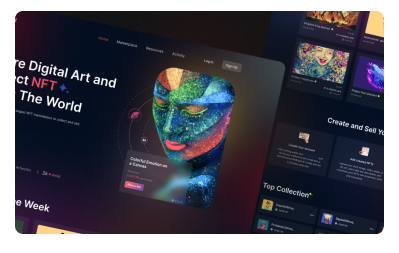
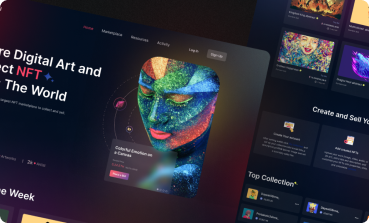
1st and 3rd section modiied

diff --git a/index.html b/index.html
@@ -34,11 +34,12 @@
         </div>
         <div class="bg-1st-sec-img ">
             <div class="container">
-                <div class="row pt-sm-150">
+                <div class="row pt-sm-150 flex-column-reverse flex-lg-row">
                     <div class="col-lg-6 col-sm-12 col-12">
-                        <h1 class="f-page-main pt-5 mx-570">We are believers decentralization and <span>Web3.</span>
+                        <h1 class="f-page-main pt-5 mx-570 mx-auto">We are believers decentralization and <span>Web3.</span>
                         </h1>
-                        <p class="f-page-des mx-570">Vulputate tristique habitant neque, accumsan. Vitae ultrices nulla erat
+                        <p class="f-page-des mx-570 mx-auto">Vulputate tristique habitant neque, accumsan. Vitae ultrices nulla
+                            erat
                             nibh aliquam, quis
                             tempus volutpat arcu. Leo convallis luctus dis malesuada turpis non consequat ac. </p>
                         <div class="d-flex gap-35 flex-column flex-md-row pt-4">
@@ -54,18 +55,22 @@
                         </div>
                     </div>
                     <div class="col-lg-6 col-sm-12 col-12 pt-3">
-                        <div class=""><img src="./assets/images/roate-card-img.png" alt="rotate-card-img"
-                                class="w-100"></div>
+                        <div><img src="./assets/images/roate-card-img.png" alt="rotate-card-img" class="w-100">
+                        </div>
                     </div>
                 </div>
+                <div class="d-flex justify-content-center align-items-center mt-5 pb-70"><a href="#upcoming"><svg width="16" height="52" viewBox="0 0 16 52" fill="none" xmlns="http://www.w3.org/2000/svg">
+                    <path opacity="0.7" d="M7.2929 51.7071C7.68342 52.0976 8.31658 52.0976 8.70711 51.7071L15.0711 45.3431C15.4616 44.9526 15.4616 44.3195 15.0711 43.9289C14.6805 43.5384 14.0474 43.5384 13.6569 43.9289L8 49.5858L2.34315 43.9289C1.95262 43.5384 1.31946 43.5384 0.928934 43.9289C0.53841 44.3195 0.53841 44.9526 0.928934 45.3431L7.2929 51.7071ZM7 4.37114e-08L7 51L9 51L9 -4.37114e-08L7 4.37114e-08Z" fill="white"/>
+                    </svg>
+                    </a></div>
             </div>
         </div>
     </header>
     <!--1st section  -->
-    <section class="position-relative">
-        <div class="container py-sm-150 overflow-hidden">
+    <section class="position-relative overflow-hidden" id="upcoming">
+        <div class="container py-sm-100 ">
             <div class="ellipse2"></div>
-            <h2 class="f-section-main d-flex justify-content-center align-items-center py-5 first-sec-line">Upcoming
+            <h2 class="f-section-main d-flex justify-content-center align-items-center pb-5 first-sec-line position-relative text-center">Upcoming
                 Projects </h2>
             <div class="row w-100 justify-content-center align-items-center">
                 <div class="col-lg-3 col-md-4 col-sm-6 col-12 pb-3 d-flex justify-content-center align-items-center">
@@ -120,49 +125,59 @@
             <div class="ellipse3"></div>
             <h2 class="f-section-main d-flex justify-content-center align-items-center sec-2-line pt-4">Services</h2>
             <div class="row pt-75 pb-sm-150 justify-content-center align-items-center">
-                <div class="col-lg-3 col-md-4 col-sm-6 col-12 pb-2 position-relative moon-hover d-flex flex-column justify-content-center-align-items-center">
-                    <div class="moon-circle-1"></div>
-                    <div class="services-card w-100 h-100">
-                        <span><svg width="40" height="40" viewBox="0 0 40 40" fill="none"
-                                xmlns="http://www.w3.org/2000/svg">
-                                <path
-                                    d="M8.889 9.11108H26.6668V10.8889H8.889V9.11108ZM8.889 18H17.8734V19.7778H8.889V18ZM25.9757 13.5555H8.889V15.3333H24.199L25.9757 13.5555ZM14.2146 32.3022C14.5134 32.6449 14.8927 32.908 15.3184 33.0678C15.7441 33.2276 16.2029 33.2791 16.6534 33.2178H25.3234C25.5297 33.2178 25.7276 33.1358 25.8734 32.9899C26.0193 32.8441 26.1012 32.6463 26.1012 32.44C26.1012 32.2337 26.0193 32.0359 25.8734 31.89C25.7276 31.7441 25.5297 31.6622 25.3234 31.6622H16.6534C15.6412 31.6444 15.8212 30.7655 15.9634 30.4933C16.1489 30.1738 16.2933 29.8322 16.3934 29.4766C16.4599 29.1905 16.4286 28.8904 16.3045 28.6242C16.1805 28.3579 15.9708 28.1409 15.709 28.0078C15.2884 27.8183 14.8173 27.7718 14.3678 27.8756C13.9182 27.9793 13.5151 28.2275 13.2201 28.5822C12.8379 28.9766 12.3068 29.58 11.7979 30.1666C12.1123 28.9344 12.5201 27.3533 12.9201 25.8111C13.0347 25.4597 13.0119 25.0779 12.8562 24.7426C12.7006 24.4074 12.4236 24.1436 12.0812 24.0044C11.702 23.8743 11.2876 23.8929 10.9215 24.0564C10.5555 24.22 10.2651 24.5163 10.109 24.8855C9.62899 25.8089 5.82899 32.1766 5.79122 32.2411C5.73883 32.3288 5.70424 32.4259 5.6894 32.527C5.67456 32.6281 5.67978 32.7311 5.70475 32.8301C5.72972 32.9292 5.77395 33.0223 5.83492 33.1043C5.89589 33.1862 5.97241 33.2554 6.06011 33.3078C6.23721 33.4135 6.44909 33.4446 6.64913 33.3942C6.84917 33.3438 7.02098 33.216 7.12677 33.0389C7.269 32.8 10.3023 27.7189 11.259 26.0222C10.539 28.8 9.74566 31.8911 9.699 32.1689C9.64646 32.3731 9.66223 32.5889 9.74389 32.7833C9.82555 32.9777 9.96861 33.1401 10.1512 33.2455C10.3546 33.3464 10.5858 33.3767 10.8083 33.3316C11.0308 33.2866 11.232 33.1687 11.3801 32.9966C11.5201 32.87 11.7823 32.5689 12.4434 31.8011C13.0594 31.0766 13.6903 30.365 14.3357 29.6666C14.5779 29.4111 14.7246 29.5244 14.5823 29.7755C14.3041 30.1271 14.1237 30.5459 14.0593 30.9896C13.9949 31.4332 14.0489 31.8861 14.2157 32.3022H14.2146Z"
-                                    fill="white" />
-                                <path
-                                    d="M31.1111 24.1055V35.5555H4.44439V4.44439H31.1111V9.99217L32.5888 8.51439C32.8163 8.29002 33.0657 8.08902 33.3333 7.91439V3.33328C33.3333 3.03859 33.2162 2.75598 33.0078 2.5476C32.7995 2.33923 32.5169 2.22217 32.2222 2.22217H3.33328C3.03859 2.22217 2.75598 2.33923 2.5476 2.5476C2.33923 2.75598 2.22217 3.03859 2.22217 3.33328V36.6666C2.22217 36.9613 2.33923 37.2439 2.5476 37.4523C2.75598 37.6607 3.03859 37.7777 3.33328 37.7777H32.2222C32.5169 37.7777 32.7995 37.6607 33.0078 37.4523C33.2162 37.2439 33.3333 36.9613 33.3333 36.6666V23.8077C32.6518 24.1689 31.8636 24.2745 31.1111 24.1055Z"
-                                    fill="white" />
-                                <path
-                                    d="M37.9198 13.1788L37.3387 12.5977C37.6357 12.2052 37.7861 11.7212 37.7638 11.2295C37.7414 10.7378 37.5478 10.2694 37.2165 9.90545C36.7864 9.52638 36.224 9.3326 35.6517 9.36631C35.0794 9.40003 34.5436 9.6585 34.161 10.0855L20.2443 23.9999L19.3143 27.491C19.2996 27.5367 19.2978 27.5856 19.3091 27.6322C19.3205 27.6788 19.3445 27.7214 19.3785 27.7552C19.4126 27.789 19.4553 27.8128 19.502 27.8238C19.5488 27.8348 19.5976 27.8327 19.6432 27.8177L23.1221 26.8766L36.1132 13.8855L36.6621 14.4355C36.7004 14.4737 36.7308 14.5192 36.7516 14.5692C36.7723 14.6193 36.783 14.6729 36.783 14.7271C36.783 14.7813 36.7723 14.8349 36.7516 14.885C36.7308 14.935 36.7004 14.9805 36.6621 15.0188L31.1987 20.4821C31.0321 20.6489 30.9385 20.8751 30.9386 21.1108C30.9387 21.3466 31.0325 21.5727 31.1993 21.7393C31.3661 21.906 31.5922 21.9995 31.828 21.9994C32.0638 21.9993 32.2899 21.9056 32.4565 21.7388L37.9198 16.2755C38.3305 15.8646 38.5611 15.3075 38.5611 14.7266C38.5611 14.1457 38.3305 13.5885 37.9198 13.1777V13.1788Z"
-                                    fill="white" />
-                            </svg>
-                        </span>
-                        <p class="f-services-main pt-3">Smart Contract </p>
-                        <p class="f-services-des">Eu faucibus libero leo, malesuada justo, tortor pellentesque quis sit.
-                            Dui viverra at odio
-                            sodales duis integer rhoncus pulvinar. Commodo massa aliquam.</p>
+                <div
+                    class="col-lg-3 col-md-4 col-sm-6 col-12 pb-2 position-relative d-flex flex-column justify-content-center-align-items-center">
+                    <div class="moon-hover">
+                        <div class="moon-circle-1"></div>
+                        <div class="services-card w-100 h-100">
+                            <span><svg width="40" height="40" viewBox="0 0 40 40" fill="none"
+                                    xmlns="http://www.w3.org/2000/svg">
+                                    <path
+                                        d="M8.889 9.11108H26.6668V10.8889H8.889V9.11108ZM8.889 18H17.8734V19.7778H8.889V18ZM25.9757 13.5555H8.889V15.3333H24.199L25.9757 13.5555ZM14.2146 32.3022C14.5134 32.6449 14.8927 32.908 15.3184 33.0678C15.7441 33.2276 16.2029 33.2791 16.6534 33.2178H25.3234C25.5297 33.2178 25.7276 33.1358 25.8734 32.9899C26.0193 32.8441 26.1012 32.6463 26.1012 32.44C26.1012 32.2337 26.0193 32.0359 25.8734 31.89C25.7276 31.7441 25.5297 31.6622 25.3234 31.6622H16.6534C15.6412 31.6444 15.8212 30.7655 15.9634 30.4933C16.1489 30.1738 16.2933 29.8322 16.3934 29.4766C16.4599 29.1905 16.4286 28.8904 16.3045 28.6242C16.1805 28.3579 15.9708 28.1409 15.709 28.0078C15.2884 27.8183 14.8173 27.7718 14.3678 27.8756C13.9182 27.9793 13.5151 28.2275 13.2201 28.5822C12.8379 28.9766 12.3068 29.58 11.7979 30.1666C12.1123 28.9344 12.5201 27.3533 12.9201 25.8111C13.0347 25.4597 13.0119 25.0779 12.8562 24.7426C12.7006 24.4074 12.4236 24.1436 12.0812 24.0044C11.702 23.8743 11.2876 23.8929 10.9215 24.0564C10.5555 24.22 10.2651 24.5163 10.109 24.8855C9.62899 25.8089 5.82899 32.1766 5.79122 32.2411C5.73883 32.3288 5.70424 32.4259 5.6894 32.527C5.67456 32.6281 5.67978 32.7311 5.70475 32.8301C5.72972 32.9292 5.77395 33.0223 5.83492 33.1043C5.89589 33.1862 5.97241 33.2554 6.06011 33.3078C6.23721 33.4135 6.44909 33.4446 6.64913 33.3942C6.84917 33.3438 7.02098 33.216 7.12677 33.0389C7.269 32.8 10.3023 27.7189 11.259 26.0222C10.539 28.8 9.74566 31.8911 9.699 32.1689C9.64646 32.3731 9.66223 32.5889 9.74389 32.7833C9.82555 32.9777 9.96861 33.1401 10.1512 33.2455C10.3546 33.3464 10.5858 33.3767 10.8083 33.3316C11.0308 33.2866 11.232 33.1687 11.3801 32.9966C11.5201 32.87 11.7823 32.5689 12.4434 31.8011C13.0594 31.0766 13.6903 30.365 14.3357 29.6666C14.5779 29.4111 14.7246 29.5244 14.5823 29.7755C14.3041 30.1271 14.1237 30.5459 14.0593 30.9896C13.9949 31.4332 14.0489 31.8861 14.2157 32.3022H14.2146Z"
+                                        fill="white" />
+                                    <path
+                                        d="M31.1111 24.1055V35.5555H4.44439V4.44439H31.1111V9.99217L32.5888 8.51439C32.8163 8.29002 33.0657 8.08902 33.3333 7.91439V3.33328C33.3333 3.03859 33.2162 2.75598 33.0078 2.5476C32.7995 2.33923 32.5169 2.22217 32.2222 2.22217H3.33328C3.03859 2.22217 2.75598 2.33923 2.5476 2.5476C2.33923 2.75598 2.22217 3.03859 2.22217 3.33328V36.6666C2.22217 36.9613 2.33923 37.2439 2.5476 37.4523C2.75598 37.6607 3.03859 37.7777 3.33328 37.7777H32.2222C32.5169 37.7777 32.7995 37.6607 33.0078 37.4523C33.2162 37.2439 33.3333 36.9613 33.3333 36.6666V23.8077C32.6518 24.1689 31.8636 24.2745 31.1111 24.1055Z"
+                                        fill="white" />
+                                    <path
+                                        d="M37.9198 13.1788L37.3387 12.5977C37.6357 12.2052 37.7861 11.7212 37.7638 11.2295C37.7414 10.7378 37.5478 10.2694 37.2165 9.90545C36.7864 9.52638 36.224 9.3326 35.6517 9.36631C35.0794 9.40003 34.5436 9.6585 34.161 10.0855L20.2443 23.9999L19.3143 27.491C19.2996 27.5367 19.2978 27.5856 19.3091 27.6322C19.3205 27.6788 19.3445 27.7214 19.3785 27.7552C19.4126 27.789 19.4553 27.8128 19.502 27.8238C19.5488 27.8348 19.5976 27.8327 19.6432 27.8177L23.1221 26.8766L36.1132 13.8855L36.6621 14.4355C36.7004 14.4737 36.7308 14.5192 36.7516 14.5692C36.7723 14.6193 36.783 14.6729 36.783 14.7271C36.783 14.7813 36.7723 14.8349 36.7516 14.885C36.7308 14.935 36.7004 14.9805 36.6621 15.0188L31.1987 20.4821C31.0321 20.6489 30.9385 20.8751 30.9386 21.1108C30.9387 21.3466 31.0325 21.5727 31.1993 21.7393C31.3661 21.906 31.5922 21.9995 31.828 21.9994C32.0638 21.9993 32.2899 21.9056 32.4565 21.7388L37.9198 16.2755C38.3305 15.8646 38.5611 15.3075 38.5611 14.7266C38.5611 14.1457 38.3305 13.5885 37.9198 13.1777V13.1788Z"
+                                        fill="white" />
+                                </svg>
+                            </span>
+                            <p class="f-services-main pt-3">Smart Contract </p>
+                            <p class="f-services-des">Eu faucibus libero leo, malesuada justo, tortor pellentesque quis
+                                sit.
+                                Dui viverra at odio
+                                sodales duis integer rhoncus pulvinar. Commodo massa aliquam.</p>
+                        </div>
                     </div>
                 </div>
-                <div class="col-lg-3 col-md-4 col-sm-6 col-12 pb-2 position-relative  moon-hover d-flex flex-column justify-content-center-align-items-center">
-                    <div class="moon-circle-1"></div>
-                    <div class="services-card w-100 h100">
-                        <span><svg width="40" height="40" viewBox="0 0 40 40" fill="none"
-                                xmlns="http://www.w3.org/2000/svg">
-                                <path
-                                    d="M33.3327 19.1668V11.6668L25.8327 3.3335H8.33268C7.41221 3.3335 6.66602 4.07969 6.66602 5.00016V35.0002C6.66602 35.9207 7.41221 36.6668 8.33268 36.6668H18.3327"
-                                    stroke="white" stroke-width="2" stroke-linecap="round" stroke-linejoin="round" />
-                                <path d="M21.666 31.6667L26.666 35.8334L34.166 26.6667" stroke="white" stroke-width="2"
-                                    stroke-linecap="round" stroke-linejoin="round" />
-                                <path d="M25 3.3335V11.6668H33.3333" stroke="white" stroke-width="2"
-                                    stroke-linecap="round" stroke-linejoin="round" />
-                            </svg>
-                        </span>
-                        <p class="f-services-main pt-3">Proof</p>
-                        <p class="f-services-des">Nisl, sed morbi porta orci nunc. Curabitur vitae hendrerit justo
-                            ultricies quam vitae pellentesque tellus felis. Elementum tortor quis est morbi ullamcorper.
-                        </p>
+                <div
+                    class="col-lg-3 col-md-4 col-sm-6 col-12 pb-2 position-relative d-flex flex-column justify-content-center-align-items-center">
+                    <div class="moon-hover">
+                        <div class="moon-circle-1"></div>
+                        <div class="services-card w-100 h100">
+                            <span><svg width="40" height="40" viewBox="0 0 40 40" fill="none"
+                                    xmlns="http://www.w3.org/2000/svg">
+                                    <path
+                                        d="M33.3327 19.1668V11.6668L25.8327 3.3335H8.33268C7.41221 3.3335 6.66602 4.07969 6.66602 5.00016V35.0002C6.66602 35.9207 7.41221 36.6668 8.33268 36.6668H18.3327"
+                                        stroke="white" stroke-width="2" stroke-linecap="round"
+                                        stroke-linejoin="round" />
+                                    <path d="M21.666 31.6667L26.666 35.8334L34.166 26.6667" stroke="white"
+                                        stroke-width="2" stroke-linecap="round" stroke-linejoin="round" />
+                                    <path d="M25 3.3335V11.6668H33.3333" stroke="white" stroke-width="2"
+                                        stroke-linecap="round" stroke-linejoin="round" />
+                                </svg>
+                            </span>
+                            <p class="f-services-main pt-3">Proof</p>
+                            <p class="f-services-des">Nisl, sed morbi porta orci nunc. Curabitur vitae hendrerit justo
+                                ultricies quam vitae pellentesque tellus felis. Elementum tortor quis est morbi
+                                ullamcorper.
+                            </p>
+                        </div>
                     </div>
                 </div>
-                <div class="col-lg-3 col-md-4 col-sm-6 col-12 pb-2 position-relative moon-hover d-flex flex-column justify-content-center-align-items-center">
+                <div class="col-lg-3 col-md-4 col-sm-6 col-12 pb-2 position-relative d-flex flex-column justify-content-center-align-items-center">
+                    <div class="moon-hover">
                     <div class="moon-circle-1"></div>
                     <div class="services-card w-100 h-100">
                         <span><svg width="40" height="40" viewBox="0 0 40 40" fill="none"
@@ -174,24 +189,34 @@
                         </span>
                         <p class="f-services-main pt-3">NFT Solutions</p>
                         <p class="f-services-des">Id nam massa sit ut purus tortor est ultrices nunc. Ipsum, nibh
-                            egestas vehicula tellus. Molestie adipiscing diam nibh lectus. Magna id nisl quis vestibulum
+                            egestas vehicula tellus. Molestie adipiscing diam nibh lectus. Magna id nisl quis
+                            vestibulum
                             rhoncus.</p>
                     </div>
+                    </div>
                 </div>
-                <div class="col-lg-3 col-md-4 col-sm-6 col-12 pb-2 position-relative moon-hover d-flex flex-column justify-content-center-align-items-center">
+                <div class="col-lg-3 col-md-4 col-sm-6 col-12 pb-2 position-relative d-flex flex-column justify-content-center-align-items-center">
+                    <div class="moon-hover">
                     <div class="moon-circle-1"></div>
                     <div class="services-card w-100 h-100">
-                        <span><svg width="40" height="40" viewBox="0 0 40 40" fill="none" xmlns="http://www.w3.org/2000/svg">
-                            <path d="M35 21.25V27.5H5V7.5H17.5V5H5C4.33696 5 3.70107 5.26339 3.23223 5.73223C2.76339 6.20107 2.5 6.83696 2.5 7.5V27.5C2.5 28.163 2.76339 28.7989 3.23223 29.2678C3.70107 29.7366 4.33696 30 5 30H15V35H10V37.5H30V35H25V30H35C35.663 30 36.2989 29.7366 36.7678 29.2678C37.2366 28.7989 37.5 28.163 37.5 27.5V21.25H35ZM22.5 35H17.5V30H22.5V35Z" fill="white"/>
-                            <path d="M37.5 12.5V10H34.8738C34.7125 9.21753 34.4019 8.47351 33.9587 7.80875L35.8212 5.94625L34.0538 4.17875L32.1912 6.04125C31.5265 5.59814 30.7825 5.28746 30 5.12625V2.5H27.5V5.12625C26.7175 5.28746 25.9735 5.59814 25.3087 6.04125L23.4462 4.17875L21.6788 5.94625L23.5413 7.80875C23.0981 8.47351 22.7875 9.21753 22.6262 10H20V12.5H22.6262C22.7875 13.2825 23.0981 14.0265 23.5413 14.6912L21.6788 16.5538L23.4462 18.3212L25.3087 16.4587C25.9735 16.9019 26.7175 17.2125 27.5 17.3738V20H30V17.3738C30.7825 17.2125 31.5265 16.9019 32.1912 16.4587L34.0538 18.3212L35.8212 16.5538L33.9587 14.6912C34.4019 14.0265 34.7125 13.2825 34.8738 12.5H37.5ZM28.75 15C28.0083 15 27.2833 14.7801 26.6666 14.368C26.0499 13.956 25.5693 13.3703 25.2855 12.6851C25.0016 11.9998 24.9274 11.2458 25.0721 10.5184C25.2167 9.79098 25.5739 9.1228 26.0983 8.59835C26.6228 8.0739 27.291 7.71675 28.0184 7.57206C28.7458 7.42736 29.4998 7.50162 30.1851 7.78545C30.8703 8.06928 31.456 8.54993 31.868 9.16661C32.2801 9.7833 32.5 10.5083 32.5 11.25C32.499 12.2443 32.1036 13.1975 31.4006 13.9006C30.6975 14.6036 29.7443 14.999 28.75 15Z" fill="white"/>
-                            </svg>                            
+                        <span><svg width="40" height="40" viewBox="0 0 40 40" fill="none"
+                                xmlns="http://www.w3.org/2000/svg">
+                                <path
+                                    d="M35 21.25V27.5H5V7.5H17.5V5H5C4.33696 5 3.70107 5.26339 3.23223 5.73223C2.76339 6.20107 2.5 6.83696 2.5 7.5V27.5C2.5 28.163 2.76339 28.7989 3.23223 29.2678C3.70107 29.7366 4.33696 30 5 30H15V35H10V37.5H30V35H25V30H35C35.663 30 36.2989 29.7366 36.7678 29.2678C37.2366 28.7989 37.5 28.163 37.5 27.5V21.25H35ZM22.5 35H17.5V30H22.5V35Z"
+                                    fill="white" />
+                                <path
+                                    d="M37.5 12.5V10H34.8738C34.7125 9.21753 34.4019 8.47351 33.9587 7.80875L35.8212 5.94625L34.0538 4.17875L32.1912 6.04125C31.5265 5.59814 30.7825 5.28746 30 5.12625V2.5H27.5V5.12625C26.7175 5.28746 25.9735 5.59814 25.3087 6.04125L23.4462 4.17875L21.6788 5.94625L23.5413 7.80875C23.0981 8.47351 22.7875 9.21753 22.6262 10H20V12.5H22.6262C22.7875 13.2825 23.0981 14.0265 23.5413 14.6912L21.6788 16.5538L23.4462 18.3212L25.3087 16.4587C25.9735 16.9019 26.7175 17.2125 27.5 17.3738V20H30V17.3738C30.7825 17.2125 31.5265 16.9019 32.1912 16.4587L34.0538 18.3212L35.8212 16.5538L33.9587 14.6912C34.4019 14.0265 34.7125 13.2825 34.8738 12.5H37.5ZM28.75 15C28.0083 15 27.2833 14.7801 26.6666 14.368C26.0499 13.956 25.5693 13.3703 25.2855 12.6851C25.0016 11.9998 24.9274 11.2458 25.0721 10.5184C25.2167 9.79098 25.5739 9.1228 26.0983 8.59835C26.6228 8.0739 27.291 7.71675 28.0184 7.57206C28.7458 7.42736 29.4998 7.50162 30.1851 7.78545C30.8703 8.06928 31.456 8.54993 31.868 9.16661C32.2801 9.7833 32.5 10.5083 32.5 11.25C32.499 12.2443 32.1036 13.1975 31.4006 13.9006C30.6975 14.6036 29.7443 14.999 28.75 15Z"
+                                    fill="white" />
+                            </svg>
                         </span>
                         <p class="f-services-main pt-3">Support</p>
-                        <p class="f-services-des">Tellus id et fringilla auctor. Ac viverra ullamcorper nec, senectus at
-                            nulla. Metus sem egestas volutpat cras phasellus cursus augue sagittis, enim. Sit et cras.
+                        <p class="f-services-des">Tellus id et fringilla auctor. Ac viverra ullamcorper nec,
+                            senectus at
+                            nulla. Metus sem egestas volutpat cras phasellus cursus augue sagittis, enim. Sit et
+                            cras.
                         </p>
                     </div>
-
+                    </div>
                 </div>
             </div>
         </div>
@@ -199,25 +224,26 @@
     <!-- 3rd section -->
     <section class="bg-white position-relative">
         <div class="container">
-            <h2 class="f-section-main sec-3-line d-flex justify-content-center align-items-center black-clr pt-75 ">Projects</h2>
+            <h2 class="f-section-main sec-3-line d-flex justify-content-center align-items-center black-clr pt-75 ">
+                Projects</h2>
             <p class="f-page-des mx-auto text-center black-clr pt-4 mx-532">Id nam massa sit ut purus tortor est
                 ultrices nunc. Ipsum, nibh egestas vehicula tellus. Molestie
                 adipiscing diam nibh lectus. Magna id nisl quis vestibulum rhoncus.
             </p>
             <div class="row pt-4 overflow-hidden">
-                <div class="col-lg-3 col-md-4 col-sm-6 col-12 pb-3 position-relative project pb-4 overflow-hidden">
+                <div class="col-lg-3 col-md-4 col-sm-6 col-12 position-relative project mb-4 overflow-hidden">
                     <img src="./assets/images/project-1.png" alt="project-img" class="project-img w-100">
                     <div class="text-blur text-center f-project">The Tokyo Tem</div>
                 </div>
-                <div class="col-lg-3 col-md-4 col-sm-6 col-12 pb-3 position-relative project pb-4">
+                <div class="col-lg-3 col-md-4 col-sm-6 col-12 position-relative project mb-4">
                     <img src="./assets/images/project-2.png" alt="project-img" class="project-img w-100">
                     <div class="text-blur text-center f-project">The Tokyo Tem</div>
                 </div>
-                <div class="col-lg-3 col-md-4 col-sm-6 col-12 pb-3 position-relative project pb-4">
+                <div class="col-lg-3 col-md-4 col-sm-6 col-12 position-relative project mb-4">
                     <img src="./assets/images/project-3.png" alt="project-img" class="project-img w-100">
                     <div class="text-blur text-center f-project">The Tokyo Tem</div>
                 </div>
-                <div class="col-lg-3 col-md-4 col-sm-6 col-12 pb-3 position-relative project pb-4">
+                <div class="col-lg-3 col-md-4 col-sm-6 col-12 position-relative project mb-4">
                     <img src="./assets/images/project-4.png" alt="project-img" class="project-img w-100">
                     <div class="text-blur text-center f-project">The Tokyo Tem</div>
                 </div>
@@ -247,18 +273,19 @@
     <section class="overflow-hidden">
         <div class="container position-relative">
             <div class="ellipse4"></div>
-            <h2 class="f-section-main d-flex justify-content-center align-items-center sec-4-line pt-3 mt-sm-100">About</h2>
+            <h2 class="f-section-main d-flex justify-content-center align-items-center sec-4-line pt-3 mt-sm-100">About
+            </h2>
             <p class="f-page-des mx-auto mx-570 text-center pb-5 pt-3">Eros, amet, feugiat sit nec duis. Tellus in
                 faucibus consectetur dapibus. Eget sem eget nec tincidunt.
                 Urna nulla scelerisque pretium diam aliquam montes, interdum malesuada. </p>
             <div class="row">
-                <div class="col-lg-4 col-md-6 col-12 ">
+                <div class="col-lg-4 col-md-6 col-12 pb-3 pb-lg-0 ">
                     <img src="./assets/images/about-1.png" alt="card-img" class="w-100">
                 </div>
-                <div class="col-lg-4 col-md-6 col-12 ">
+                <div class="col-lg-4 col-md-6 col-12 pb-3 pb-lg-0 ">
                     <img src="./assets/images/about-2.png" alt="card-img" class="w-100">
                 </div>
-                <div class="col-lg-4 col-md-6 col-12 ">
+                <div class="col-lg-4 col-md-6 col-12 pb-3 pb-lg-0 ">
                     <img src="./assets/images/about-3.png" alt="card-img" class="w-100">
                 </div>
             </div>

diff --git a/assets/css/style.css b/assets/css/style.css
@@ -21,7 +21,7 @@
     filter: blur(124px);
     position: absolute;
     top: 0;
-    left: -23%;
+    left: -10%;
 }
 .container {
     max-width: 1140px !important;
@@ -32,7 +32,10 @@ body {
 .bg-1st-sec-img {
     background-image: url("../images/header-background.png");
     background-repeat: no-repeat;
-    background-size: cover;
+    background-size: 100% 100%;
+}
+.pb-70{
+    padding-bottom: 70px;
 }
 .gap-35 {
     gap: 35px;
@@ -50,12 +53,16 @@ body {
     border: 2px solid var(--white);
     transition: .3s;
 }
+.mx-398{
+    max-width: 398px;
+}
 .bg-transperent{
     background-color: transparent;
 }
 .f-page-main {
     text-transform: uppercase;
-    line-height: 108.687%;   
+    line-height: 108.687%; 
+    font-family: 'Sunflower', sans-serif;  
 }
 nav ul li a {
     position: relative;
@@ -123,7 +130,7 @@ font-family: 'Space Grotesk', sans-serif;
     filter: blur(124px);
     position: absolute;
     bottom: 0;
-    right: 0;
+    right: -9%;
 }
 .width-263 {
     max-width: 263px;
@@ -234,7 +241,7 @@ align-items: flex-start;
     position: absolute;
     top: -11%;
     left: 80%;
-    transition: .3s;
+    transition: .5s;
     display: none;
 }
 .moon-hover:hover .moon-circle-1 {
@@ -285,7 +292,7 @@ align-items: flex-start;
     box-shadow: 0px -1px 11px 0px rgba(255, 255, 255, 0.10);
     backdrop-filter: blur(4.5px);
     position: absolute;
-    top: 74%;
+    bottom: 0;
     display: none;
     transition: .4s;
 }
@@ -331,7 +338,7 @@ align-items: flex-start;
     filter: blur(124px);
     position: absolute;
     top: 0;
-    right:-10%;
+    right:-16%;
 }
 .sec-4-line::before {
     content: '';
@@ -372,9 +379,9 @@ align-items: flex-start;
     .mt-sm-100{
         margin-top: 100px;
     }
-    .py-sm-150{
-        padding-top: 150px;
-        padding-bottom: 150px;
+    .py-sm-100{
+        padding-top: 100px;
+        padding-bottom: 100px;
     }
     .pt-sm-150{
         padding-top: 150px;
@@ -391,14 +398,14 @@ align-items: flex-start;
         content: "";
         display: flex;
         position: absolute;
-        top: 14%;
+        top: -10%;
         left: 40%;
     }
     .first-sec-line::after{
         content: "";
         display: flex;
-        top: 22%;
-        left: 32%;
+        top: 64%;
+        left: 22%;
     }
     .sec-2-line::before {
         content: "";
@@ -450,13 +457,13 @@ align-items: flex-start;
         content: "";
         display: flex;
         position: absolute;
-        top: 20%;
+        top: -13%;
         left: 40%;
     }
     .first-sec-line::after{
         content: "";
         display: flex;
-        top: 30%;
+        top: 63%;
         left: 32%;
     }
     .sec-2-line::before {
@@ -524,7 +531,7 @@ align-items: flex-start;
     }
     .menu {
         z-index: 7;
-        position: fixed;
+        position:absolute;
         right: 2%;
         top: 33px;
     }
